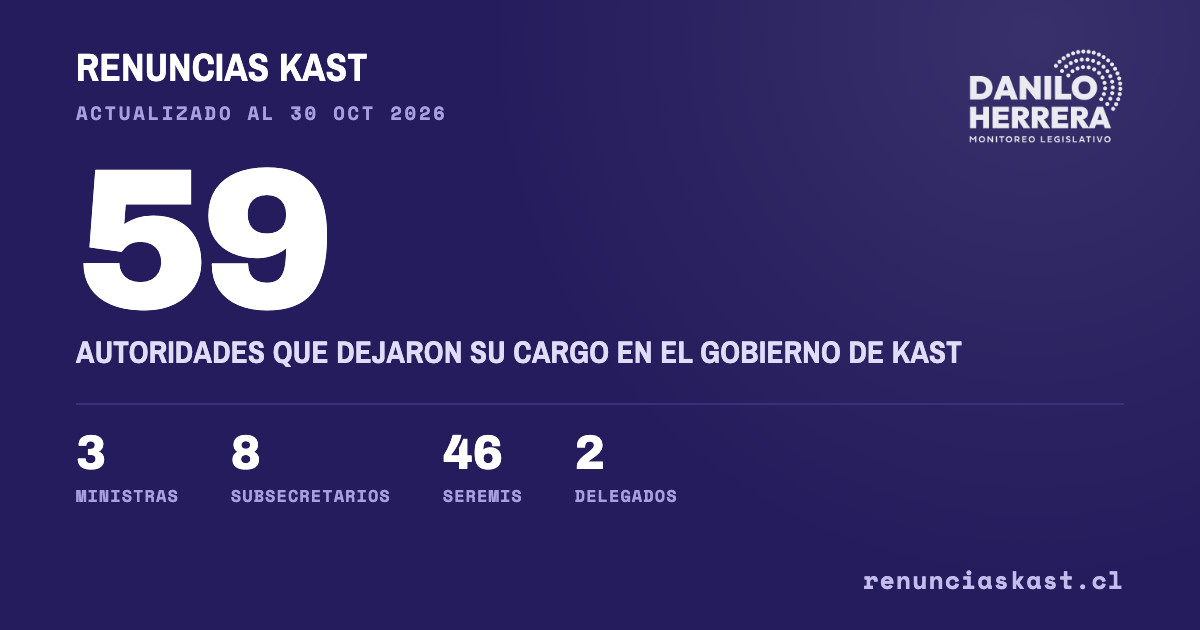
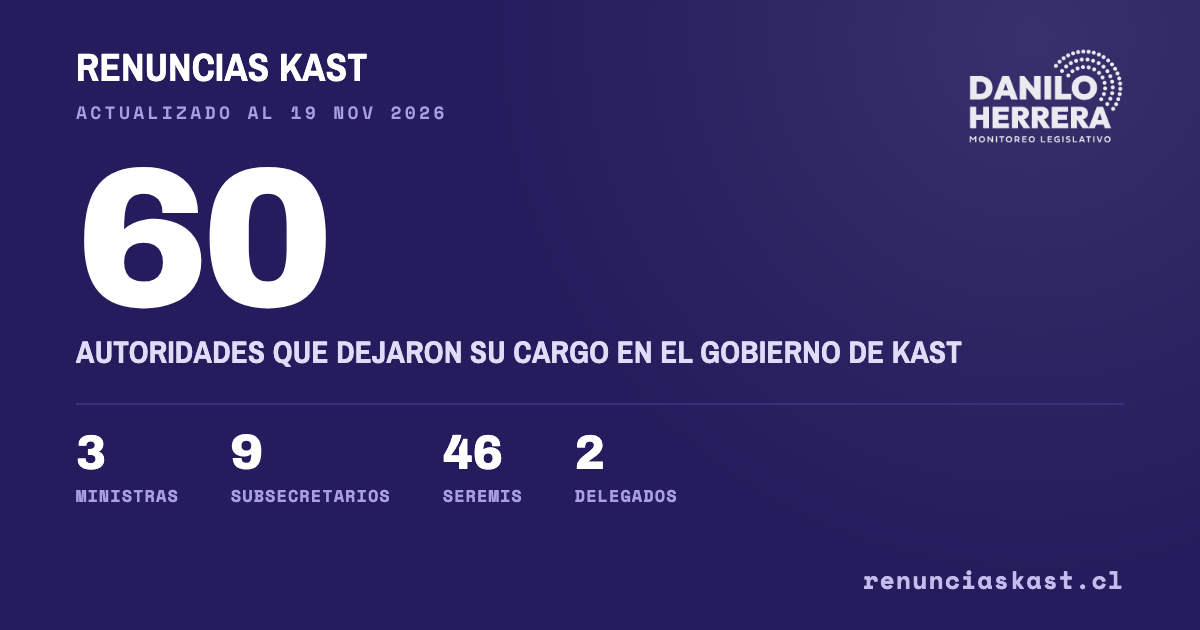
Agrega renuncia de la subsecretaria de Ciencia (Carolina Rossi)
Claude-Session: https://claude.ai/code/session_01Kv7o5L9s3Xz8qfFLx2NrvC

diff --git a/index.html b/index.html
@@ -200,7 +200,7 @@
     </div>
     <div class="sh-meta">
       <div><b>Fuente</b> Prensa</div>
-      <div><b>Actualización</b> 30 oct 2026</div>
+      <div><b>Actualización</b> 19 nov 2026</div>
     </div>
     <a class="sh-cta" href="https://app.reveniu.com/wp/checkout-custom-link/2O59Bc8JlvEC97c2IlGSEKhlH4GQngRX" target="_blank" rel="noopener">Haz tu aporte</a>
   </div>
@@ -210,12 +210,12 @@
 <header class="hero">
   <div class="wrap">
     <div class="tracker">
-      <div class="meta">Actualizado al 30 de octubre de 2026</div>
-      <div class="big">59</div>
+      <div class="meta">Actualizado al 19 de noviembre de 2026</div>
+      <div class="big">60</div>
       <div class="cap">autoridades que dejaron su cargo<br class="mbr"> en el gobierno de José Antonio Kast</div>
       <div class="strip">
         <div><div class="sn">3</div><div class="sl">ministras</div></div>
-        <div><div class="sn">8</div><div class="sl">subsecretarios</div></div>
+        <div><div class="sn">9</div><div class="sl">subsecretarios</div></div>
         <div><div class="sn">46</div><div class="sl">seremis</div></div>
         <div><div class="sn">2</div><div class="sl">delegados</div></div>
         <div><div class="sn" id="avgDias">—</div><div class="sl"><span class="nowrap">días de gobierno</span><br class="mbr"> por salida</div></div>
@@ -229,7 +229,7 @@
         <div class="ct-cell"><div class="ct-n" id="cMins">00</div><div class="ct-l">min</div></div>
         <div class="ct-cell"><div class="ct-n" id="cSecs">00</div><div class="ct-l">seg</div></div>
       </div>
-      <div class="ct-note"><span class="nowrap">Desde la salida del subsecretario de Justicia,</span><br class="mbr"> 30 de octubre a las 18:10 hrs.</div>
+      <div class="ct-note"><span class="nowrap">Desde la renuncia de la subsecretaria de Ciencia,</span><br class="mbr"> 19 de noviembre a las 13:00 hrs.</div>
     </div>
     <p class="method">Incluye renuncias, remociones, cambios de puesto y nombramientos que no llegaron a concretarse. Cada caso enlaza a una fuente de prensa.</p>
   </div>
@@ -398,6 +398,7 @@ const D = [
   {n:"Marcelo Vergara", tipo:"Seremi", terr:"Arica y Parinacota", min:"Hacienda", fecha:"17 jul", sk:717, jud:false, motivo:"Test de drogas", razon:"Renuncia voluntaria, en medio de dudas por su test de drogas. Hacienda confirmó que dio positivo, pero se negó a entregar el informe completo", medio:"El Mostrador", url:"https://www.elmostrador.cl/aqui-arica/2026/09/01/hacienda-confirma-test-positivo-de-drogas-a-exseremi-republicano-pero-no-entrega-resultados/"},
   {n:"José Francisco Lagos", tipo:"Subsecretario", sexo:"m", terr:"Nacional", min:"Segegob", fecha:"21 oct", sk:1021, jud:false, motivo:"No informadas", razon:"El Presidente aceptó su renuncia al nombrar a Gonzalo Arenas como nuevo subsecretario", medio:"La Tercera", url:"https://www.latercera.com/politica/noticia/presidente-kast-designa-a-gonzalo-arenas-como-subsecretario-de-la-secretaria-general-de-gobierno/"},
   {n:"Ronald Ruf", tipo:"Seremi", terr:"Biobío", min:"Hacienda", fecha:"19 oct", sk:1019, jud:false, sexo:"m", motivo:"No informadas", razon:"Renuncia voluntaria por motivos personales. Se hará efectiva el 30 de octubre", medio:"Diario Concepción", url:"https://www.diarioconcepcion.cl/politica/2026/10/19/renuncia-seremi-de-hacienda-biobio.html"},
+  {n:"Carolina Rossi", tipo:"Subsecretario", sexo:"f", terr:"Nacional", min:"Ciencia", fecha:"19 nov", sk:1119, jud:false, motivo:"Conflictos internos", razon:"Renuncia tras un largo quiebre con la ministra Lincolao, agudizado por despidos que la ministra instruyó sin informarle. Asume como subrogante Carolina Calvo", medio:"La Tercera", url:"https://www.latercera.com/nacional/noticia/carolina-rossi-renuncia-a-la-subsecretaria-de-ciencia-tras-la-crisis-en-el-ministerio/"},
   {n:"Luis Silva", tipo:"Subsecretario", sexo:"m", terr:"Nacional", min:"Justicia", fecha:"30 oct", sk:1030, jud:false, motivo:"Cuestionamiento de gestión", razon:"Removido tras publicar, sin avisar al ministro Rabat, un video sobre las rebajas de condenas por delitos sexuales contra menores", medio:"La Tercera", url:"https://www.latercera.com/politica/noticia/subsecretario-de-justicia-luis-silva-es-removido-de-su-cargo-en-medio-de-polemica-por-rebajas-de-condenas-y-tras-publicar-video-sin-informar/"},
   {n:"Julio Anativia", tipo:"Delegado Regional", terr:"Biobío", min:"Interior", fecha:"30 oct", sk:1030, jud:true, sexo:"m", motivo:"Conductas indebidas", razon:"Renuncia en medio de una denuncia por violencia intrafamiliar presentada por su pareja, que él niega", medio:"The Clinic", url:"https://www.theclinic.cl/2026/10/30/delegado-presidencial-del-biobio-presente-su-renuncia-en-medio-de-denuncia-en-su-contra-por-violencia-intrafamiliar/"},
   {n:"Cristian Pradenas", tipo:"Seremi", terr:"Arica y Parinacota", min:"Bienes Nacionales", fecha:"23 oct", sk:1023, jud:false, sexo:"m", motivo:"No informadas", razon:"Renuncia confirmada, sin motivo público detallado", medio:"ADN Radio", url:"https://www.adnradio.cl/2026/10/23/nueva-renuncia-en-el-gobierno-de-kast-seremi-de-bienes-nacionales-de-arica-y-parinacota-deja-su-cargo/"},
@@ -520,7 +521,7 @@ render();
 // "UN CAMBIO CADA X DÍAS" y "SIN CAMBIOS" — ambos en vivo, recalculados cada segundo contra la hora actual.
 // Actualizar ÚLTIMO_CAMBIO (fecha y hora) cada vez que se agregue una salida nueva a D.
 const INICIO_GOBIERNO=new Date(2026,2,11); // 11 mar 2026, asunción del gobierno
-const ULTIMO_CAMBIO=new Date(2026,9,30,18,10,0); // 30 oct 2026, 18:10 — salida subsecretario de Justicia (Silva)
+const ULTIMO_CAMBIO=new Date(2026,10,19,13,0,0); // 19 nov 2026, 13:00 — renuncia subsecretaria de Ciencia (Rossi)
 const totalCambios=D.filter(d=>d.sk>0).length;
 function tickCounter(){
   const now=new Date();
